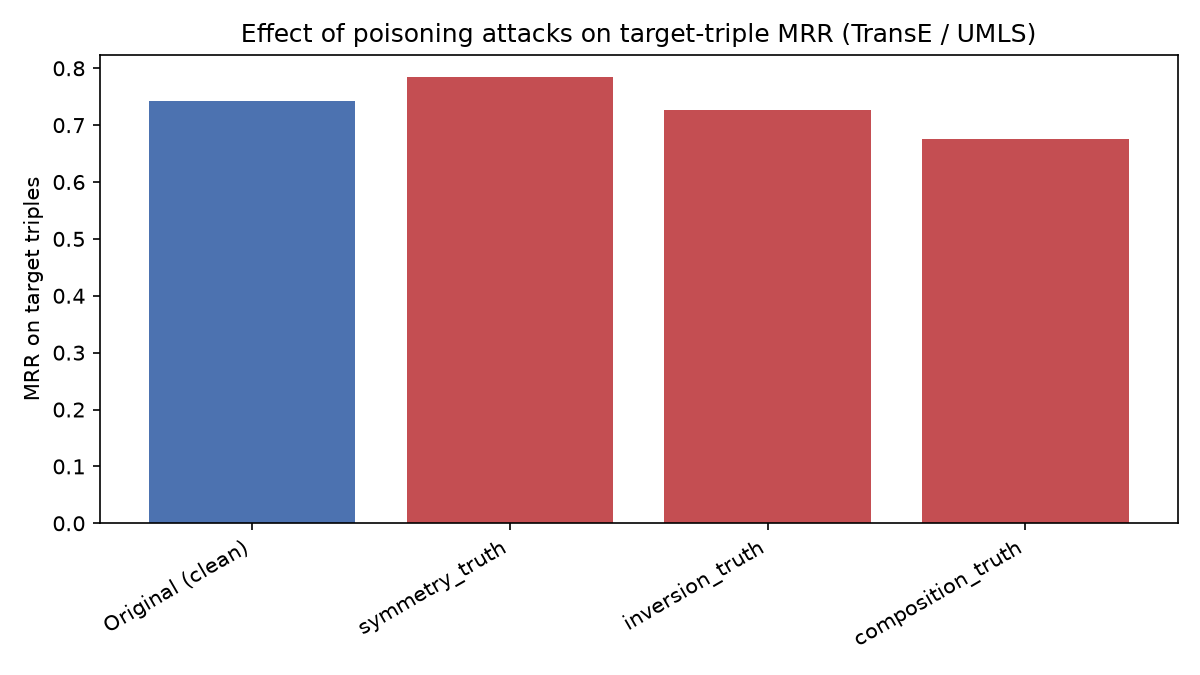
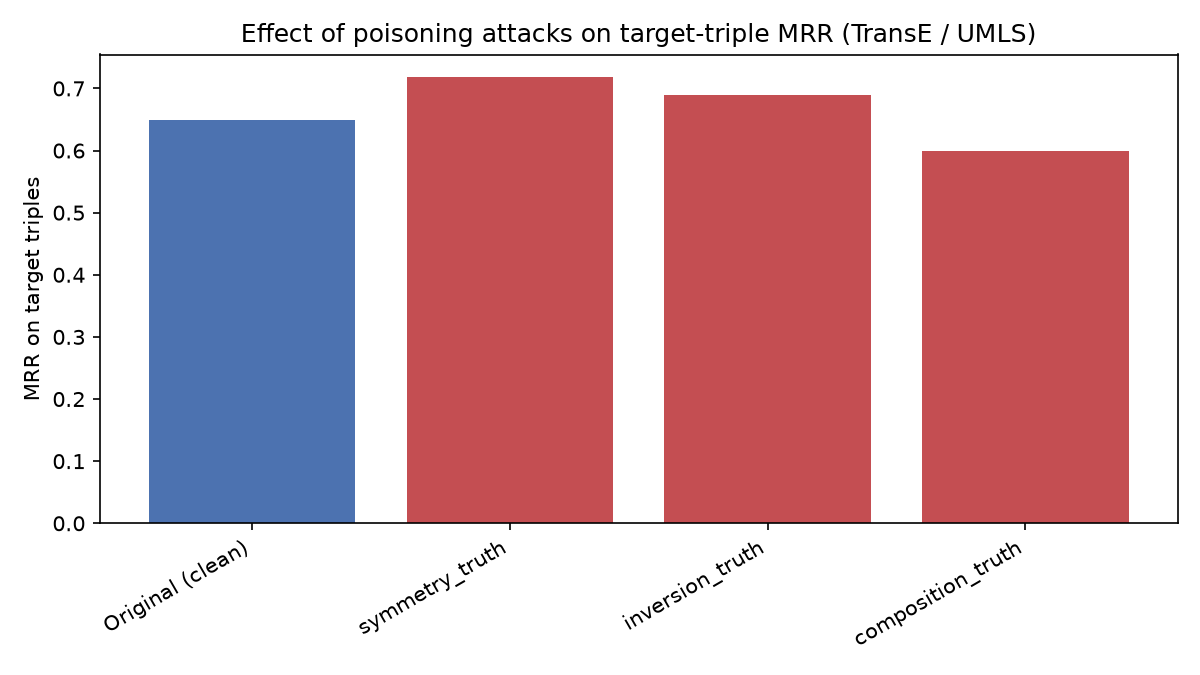
Add deletion attack: generate, build, verify, and comparison with deletion row

diff --git a/src/deletion_attack.py b/src/deletion_attack.py
@@ -1,0 +1,49 @@
+"""
+Deletion attack against a TransE KGE model.
+
+Opposite of the addition attack: for each target (s, r, o), find the
+TRAINING triples that most strongly SUPPORT the target (highest TransE
+score among the target's neighbours) and delete them, so the model loses
+the evidence it used to rank the target highly.
+
+All triples are (subject, relation, object) tuples of NAMES, matching
+targets.tsv and train.txt. Embeddings are looked up by name.
+"""
+import numpy as np
+
+
+def transe_score(es, er, eo):
+    """TransE score f = -|| es + er - eo ||  (higher = model believes more)."""
+    return -np.linalg.norm(es + er - eo)
+
+
+def _neighbours(train_triples, s, o):
+    """Training triples that contain s or o in any slot."""
+    return [(ts, tr, to) for (ts, tr, to) in train_triples
+            if ts == s or to == s or ts == o or to == o]
+
+
+def generate_deletion_triples(targets, train_triples,
+                              ent_emb, rel_emb, per_target=1):
+    """
+    ent_emb, rel_emb : dicts  name -> numpy vector
+    Returns a de-duplicated list of (s, r, o) name-triples to delete.
+    """
+    train_set = set(train_triples)
+    to_delete = set()
+
+    for (s, r, o) in targets:
+        scored = []
+        for (ts, tr, to) in _neighbours(train_triples, s, o):
+            if (ts, tr, to) == (s, r, o):
+                continue                          # never delete the target
+            score = transe_score(ent_emb[ts], rel_emb[tr], ent_emb[to])
+            scored.append((score, (ts, tr, to)))
+
+        scored.sort(key=lambda x: x[0], reverse=True)   # strongest support first
+
+        for _, triple in scored[:per_target]:
+            if triple in train_set:
+                to_delete.add(triple)
+
+    return list(to_delete)

diff --git a/scripts/10_generate_deletion.py b/scripts/10_generate_deletion.py
@@ -1,0 +1,45 @@
+"""
+Step 10: generate the deletion attack.
+
+Reads the clean embeddings (out/*.csv), the targets (out/targets.tsv) and
+the clean training triples, decides which triples to delete, and writes
+the exact list to out/del_deletion.tsv.
+"""
+import os, sys
+import numpy as np
+import pandas as pd
+
+sys.path.insert(0, os.path.join(os.path.dirname(__file__), "..", "src"))
+from deletion_attack import generate_deletion_triples
+
+
+def load_embeddings(path):
+    df = pd.read_csv(path, index_col=0)          # first column = name
+    return {name: row.to_numpy(dtype=float) for name, row in df.iterrows()}
+
+def load_triples(path):
+    out = []
+    with open(path) as f:
+        for line in f:
+            line = line.rstrip("\n")
+            if line:
+                out.append(tuple(line.split("\t")))
+    return out
+
+
+ROOT = os.path.join(os.path.dirname(__file__), "..")
+
+ent_emb = load_embeddings(os.path.join(ROOT, "out/clean_entity_embeddings.csv"))
+rel_emb = load_embeddings(os.path.join(ROOT, "out/clean_relation_embeddings.csv"))
+targets = load_triples(os.path.join(ROOT, "out/targets.tsv"))
+train   = load_triples(os.path.join(ROOT, "data/UMLS_clean/train.txt"))
+
+deleted = generate_deletion_triples(targets, train, ent_emb, rel_emb, per_target=1)
+
+out_path = os.path.join(ROOT, "out/del_deletion.tsv")
+with open(out_path, "w") as f:
+    for (s, r, o) in deleted:
+        f.write(f"{s}\t{r}\t{o}\n")
+
+print(f"Deletion attack: {len(deleted)} triples marked for deletion.")
+print(f"Written to {out_path}")

diff --git a/scripts/11_build_deleted_dataset.py b/scripts/11_build_deleted_dataset.py
@@ -1,0 +1,35 @@
+"""
+Step 11: build the deleted dataset.
+
+Removes the triples in out/del_deletion.tsv from the clean train.txt and
+writes data/UMLS_deleted/train.txt. valid.txt and test.txt are copied
+unchanged.
+"""
+import os, shutil
+
+ROOT = os.path.join(os.path.dirname(__file__), "..")
+SRC  = os.path.join(ROOT, "data/UMLS_clean")
+DST  = os.path.join(ROOT, "data/UMLS_deleted")
+os.makedirs(DST, exist_ok=True)
+
+def load_lines(path):
+    with open(path) as f:
+        return [l.rstrip("\n") for l in f if l.strip()]
+
+original = load_lines(f"{SRC}/train.txt")
+deleted  = set(load_lines(os.path.join(ROOT, "out/del_deletion.tsv")))
+
+kept = [l for l in original if l not in deleted]
+
+with open(f"{DST}/train.txt", "w") as f:
+    f.write("\n".join(kept) + "\n")
+
+for extra in ("valid.txt", "test.txt"):
+    src = f"{SRC}/{extra}"
+    if os.path.exists(src):
+        shutil.copy(src, DST)
+
+print(f"original train : {len(original)}")
+print(f"deleted        : {len(deleted)}")
+print(f"new train      : {len(kept)}")
+print(f"written to     : {DST}/train.txt")

diff --git a/scripts/12_verify_deletion.py b/scripts/12_verify_deletion.py
@@ -1,0 +1,29 @@
+"""
+Step 12: prove the deletion really happened.
+"""
+import os, sys
+
+ROOT = os.path.join(os.path.dirname(__file__), "..")
+
+def load_set(path):
+    with open(path) as f:
+        return set(l.rstrip("\n") for l in f if l.strip())
+
+original = load_set(os.path.join(ROOT, "data/UMLS_clean/train.txt"))
+new      = load_set(os.path.join(ROOT, "data/UMLS_deleted/train.txt"))
+deleted  = load_set(os.path.join(ROOT, "out/del_deletion.tsv"))
+
+ok = True
+for t in deleted:
+    if t in new:
+        print("ERROR: claimed deleted but still present:", t); ok = False
+    if t not in original:
+        print("ERROR: claimed deleted but never existed:", t); ok = False
+
+expected = len(original) - len(deleted)
+print(f"original={len(original)}  deleted={len(deleted)}  new={len(new)}  expected={expected}")
+if len(new) != expected:
+    print("ERROR: size mismatch"); ok = False
+
+print("ALL CHECKS PASSED" if ok else "CHECKS FAILED")
+sys.exit(0 if ok else 1)
